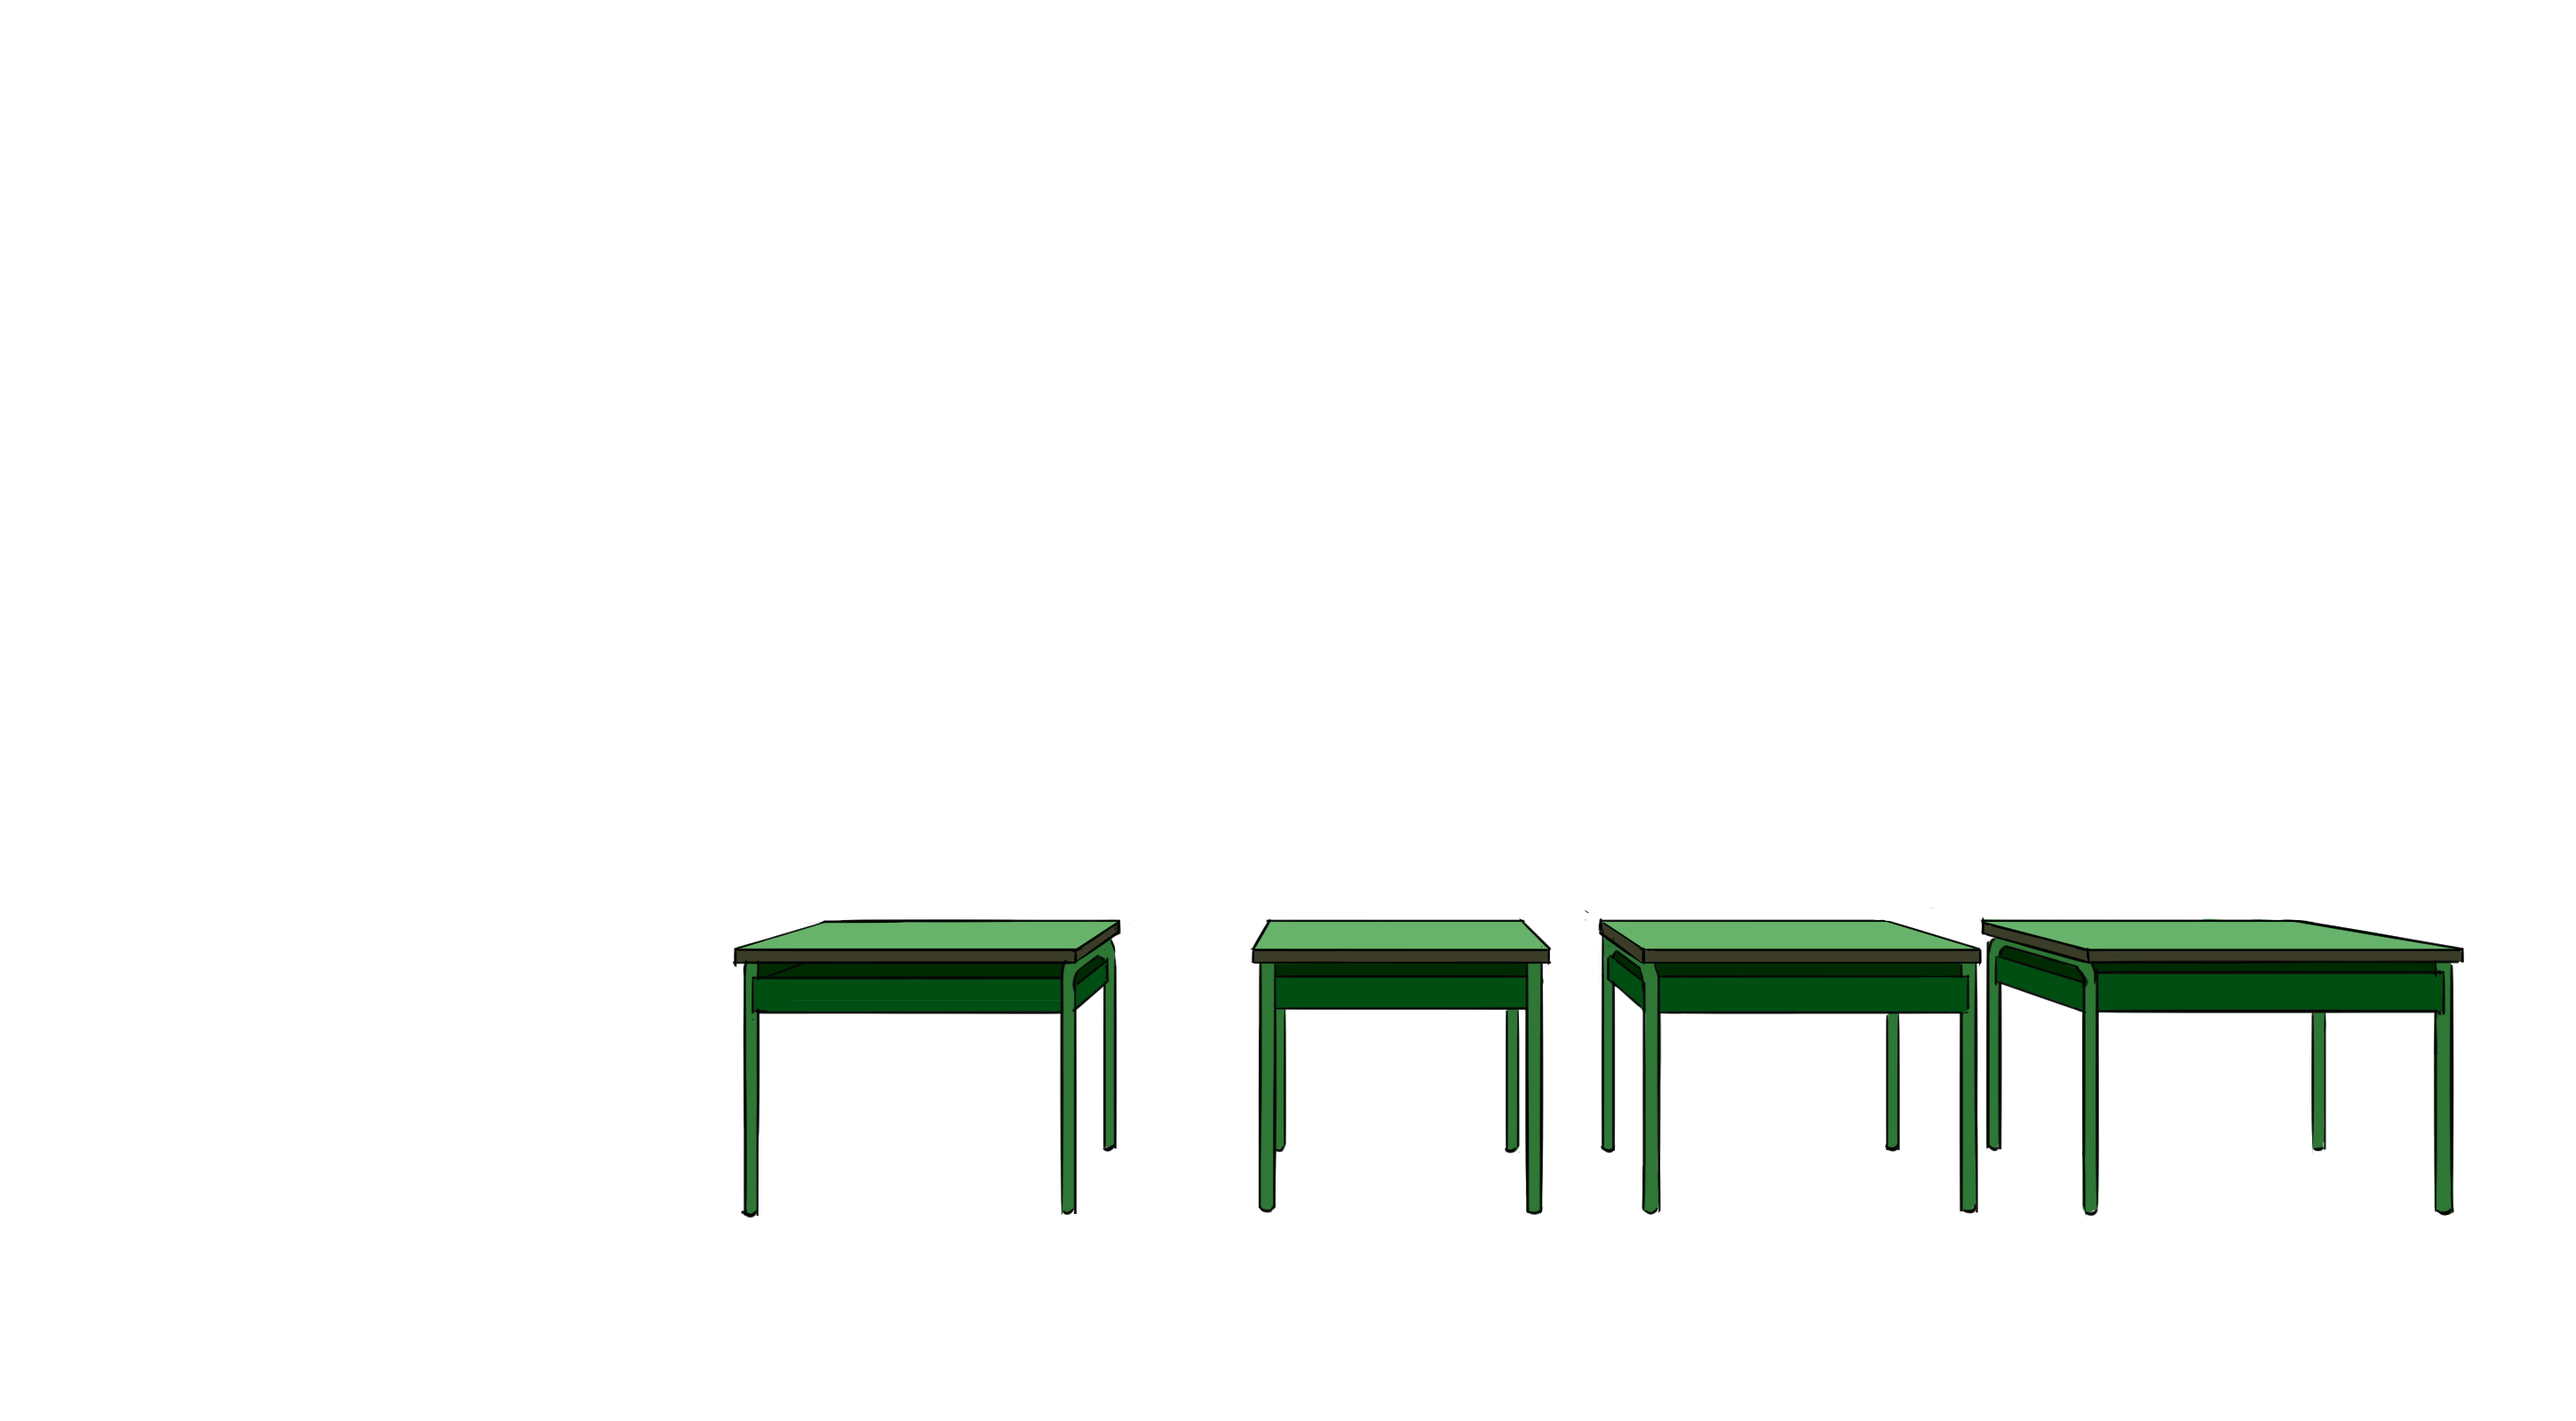
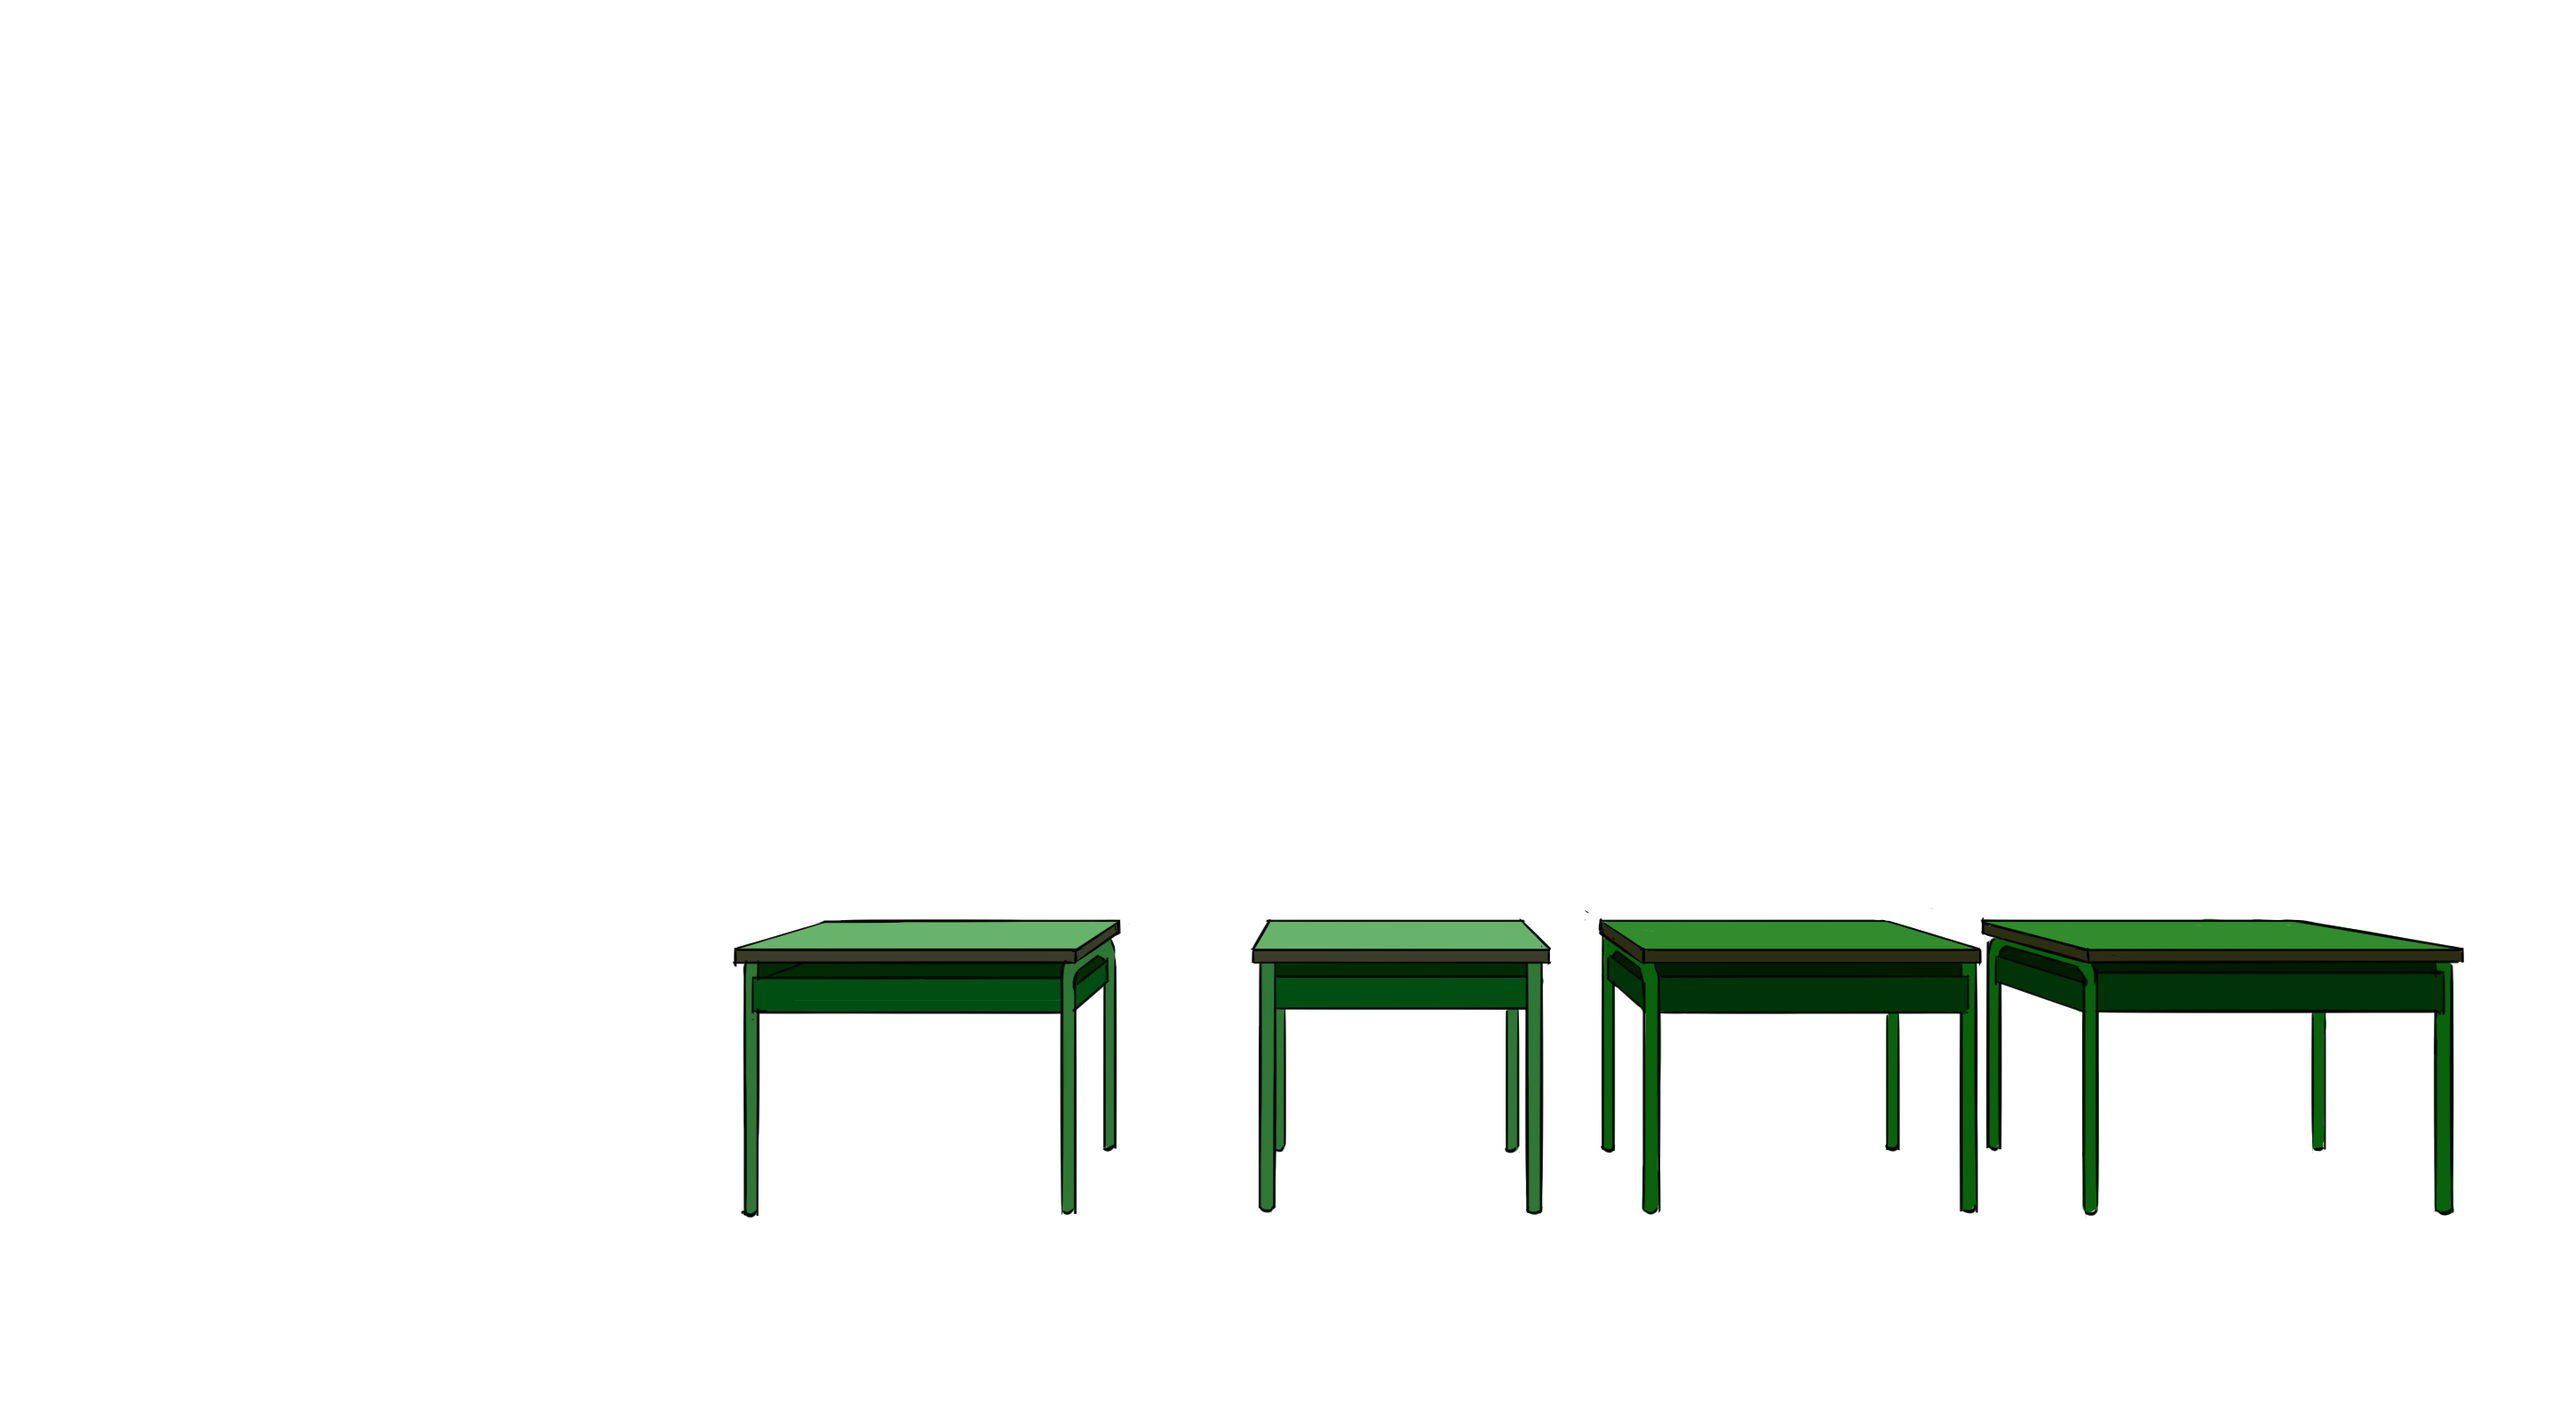
Ajustar colores de las mesas, soporte para input tactil
- Modificado baseScene para que la cámara se mueva al pulsar los extremos de la pantalla si se está usando un dispositivo con input táctil

Changed region(s): [[0.6207, 0.625, 0.9621, 0.8438]]

diff --git a/src/scenes/gameLoop/baseScene.js b/src/scenes/gameLoop/baseScene.js
@@ -67,6 +67,10 @@ export default class BaseScene extends Phaser.Scene {
         this.phoneManager.topLid.visible = false;
         this.phoneManager.botLid.visible = false;
 
+        // Si se esta usando un dispositivo con input tactil, se ajusta el limite para empezar a mover la camara
+        if (IS_TOUCH) {
+            this.START_SCROLLING *= 1.5;
+        }
     }
 
 
@@ -120,15 +124,19 @@ export default class BaseScene extends Phaser.Scene {
 
     update(t, dt) {
         super.update(t, dt);
-
-        // Scroll de la camara. Si el raton esta a la izquierda y el scroll de la camara no es inferior al del
-        // extremo izquierdo, la mueve hacia la izquierda y lo mismo para el extremo derecho del canvas
-        if (this.game.input.mousePointer.x < this.START_SCROLLING && this.cameras.main.scrollX > this.leftBound + this.CAMERA_SPEED * dt) {
-            this.cameras.main.scrollX -= this.CAMERA_SPEED * dt;
-        }
-        else if (this.game.input.mousePointer.x > this.CANVAS_WIDTH - this.START_SCROLLING
-            && this.cameras.main.scrollX < this.rightBound - this.CANVAS_WIDTH - this.CAMERA_SPEED * dt) {
-            this.cameras.main.scrollX += this.CAMERA_SPEED * dt;
+        
+        // Si se esta usando un dispositivo con input de teclado y raton (no es tactil) o
+        // si el input es tactil *Y* se esta pulsando la pantalla, se mueve la camara:
+        // Si el puntero esta a la izquierda y el scroll de la camara no es inferior al del
+        // extremo izquierdo, la mueve hacia la izquierda y lo mismo para el extremo derecho
+        if (!IS_TOUCH || (IS_TOUCH && this.input.activePointer.isDown)) {
+            if (this.game.input.activePointer.x < this.START_SCROLLING && this.cameras.main.scrollX > this.leftBound + this.CAMERA_SPEED * dt) {
+                this.cameras.main.scrollX -= this.CAMERA_SPEED * dt;
+            }
+            else if (this.game.input.activePointer.x > this.CANVAS_WIDTH - this.START_SCROLLING
+                && this.cameras.main.scrollX < this.rightBound - this.CANVAS_WIDTH - this.CAMERA_SPEED * dt) {
+                this.cameras.main.scrollX += this.CAMERA_SPEED * dt;
+            }
         }
     }
 

diff --git a/src/script.js b/src/script.js
@@ -3,3 +3,9 @@ window.onload = function () {
     let focused = document.querySelector("#game");
     focused.focus();
 };
+
+// Comprobar si el input es tactil o con teclado y raton
+var IS_TOUCH = false;
+window.addEventListener('touchstart', function () {
+    IS_TOUCH = true;
+});
